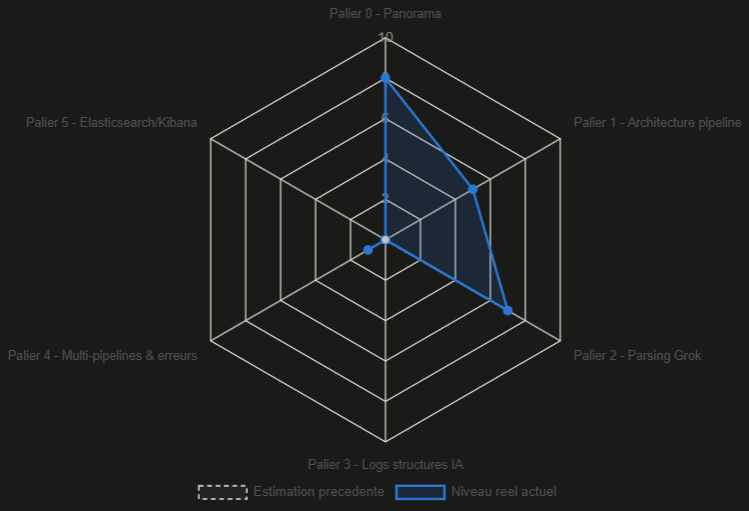
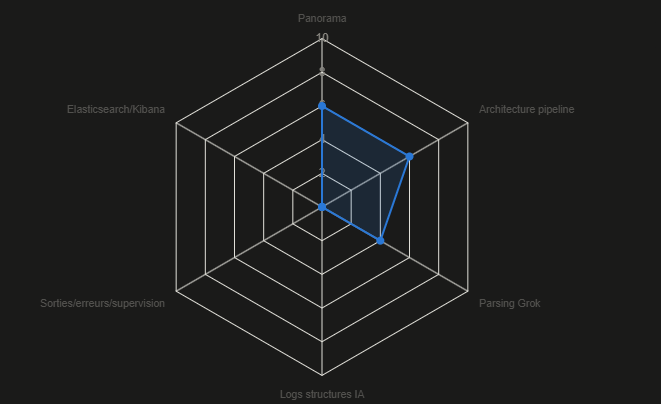
logstash: radar recalibre (couverture vs profil 2-3 ans experience, plafond non atteint), methodologie clarifiee

diff --git a/logstash/README.md b/logstash/README.md
@@ -10,6 +10,13 @@ repart à 1), `pipelines/` (fichiers `.conf` par palier/TP),
 
 ![Radar covering](rsc/radar.png)
 
+Ce radar est indicatif : il estime la couverture du repo (notes,
+scripts, résultats testés) face au plafond de quelqu'un pratiquant
+Logstash au quotidien depuis 2-3 ans — le 10 représente ce plafond
+estimé, pas la perfection absolue. La partie Elasticsearch/Kibana
+n'étant que du bonus pour ce module (pas l'objectif central), un
+score bas à cet endroit ne reflète pas un retard préoccupant à
+combler en priorité.
 
 ## Environnement
 
